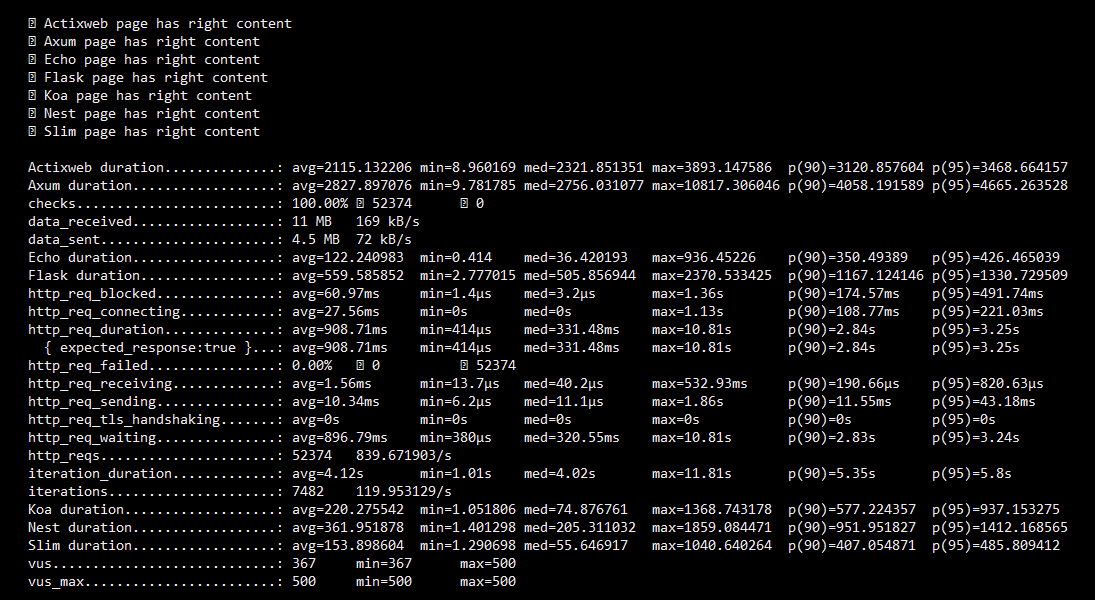
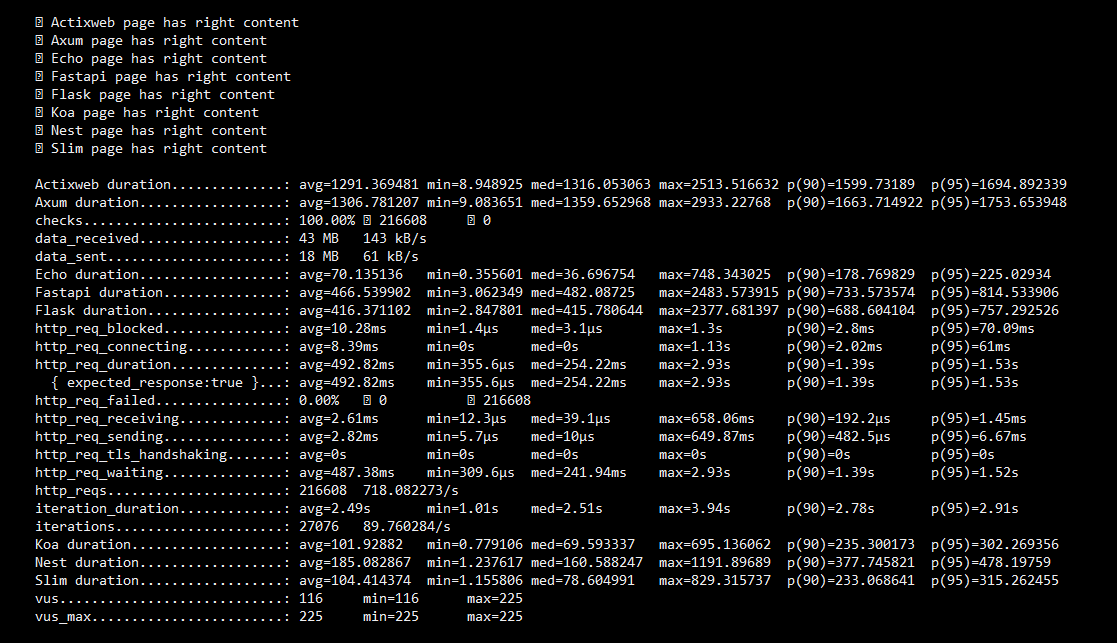
update

diff --git a/README.md b/README.md
@@ -4,6 +4,7 @@ I compared the performance of the web frameworks:
 * Rust Actix Web;
 * Rust Axum;
 * Go Echo;
+* Python FastAPI;
 * Python Flask;
 * JavaScript Koa;
 * JavaScript Nest;
@@ -15,17 +16,19 @@ For testing, I used the Caddy server located on the same Docker network and Graf
 
 To monitor CPU and memory usage of Docker containers for the top 3 frameworks, I used cAdvisor, Prometheus, and Grafana.
 
-![Summary](https://github.com/spolanyev/performance-comparison/blob/main/k6-summary.png?raw=true)
+![Response Time](https://github.com/spolanyev/performance-comparison/blob/main/k6-summary.png?raw=true)
 
-![Consumption](https://github.com/spolanyev/performance-comparison/blob/main/consumption-during-test.png?raw=true)
+![CPU Consumption](https://github.com/spolanyev/performance-comparison/blob/main/grafana-docker-cpu.png?raw=true)
+
+![Memory Consumption](https://github.com/spolanyev/performance-comparison/blob/main/grafana-docker-memory.png?raw=true)
 
 ![Containers](https://github.com/spolanyev/performance-comparison/blob/main/containers.png?raw=true)
 
-![Top response time](https://github.com/spolanyev/performance-comparison/blob/main/k6-summary-top-3.png?raw=true)
+![Top 3 Response Time](https://github.com/spolanyev/performance-comparison/blob/main/k6-summary-top-3.png?raw=true)
 
-![Top CPU consumption](https://github.com/spolanyev/performance-comparison/blob/main/grafana-docker-cpu-top-3.png?raw=true)
+![Top 3 CPU Consumption](https://github.com/spolanyev/performance-comparison/blob/main/grafana-docker-cpu-top-3.png?raw=true)
 
-![Top memoru consumption](https://github.com/spolanyev/performance-comparison/blob/main/grafana-docker-memory-top-3.png?raw=true)
+![Top 3 Memoru Consumption](https://github.com/spolanyev/performance-comparison/blob/main/grafana-docker-memory-top-3.png?raw=true)
 
 # Contacts
 
